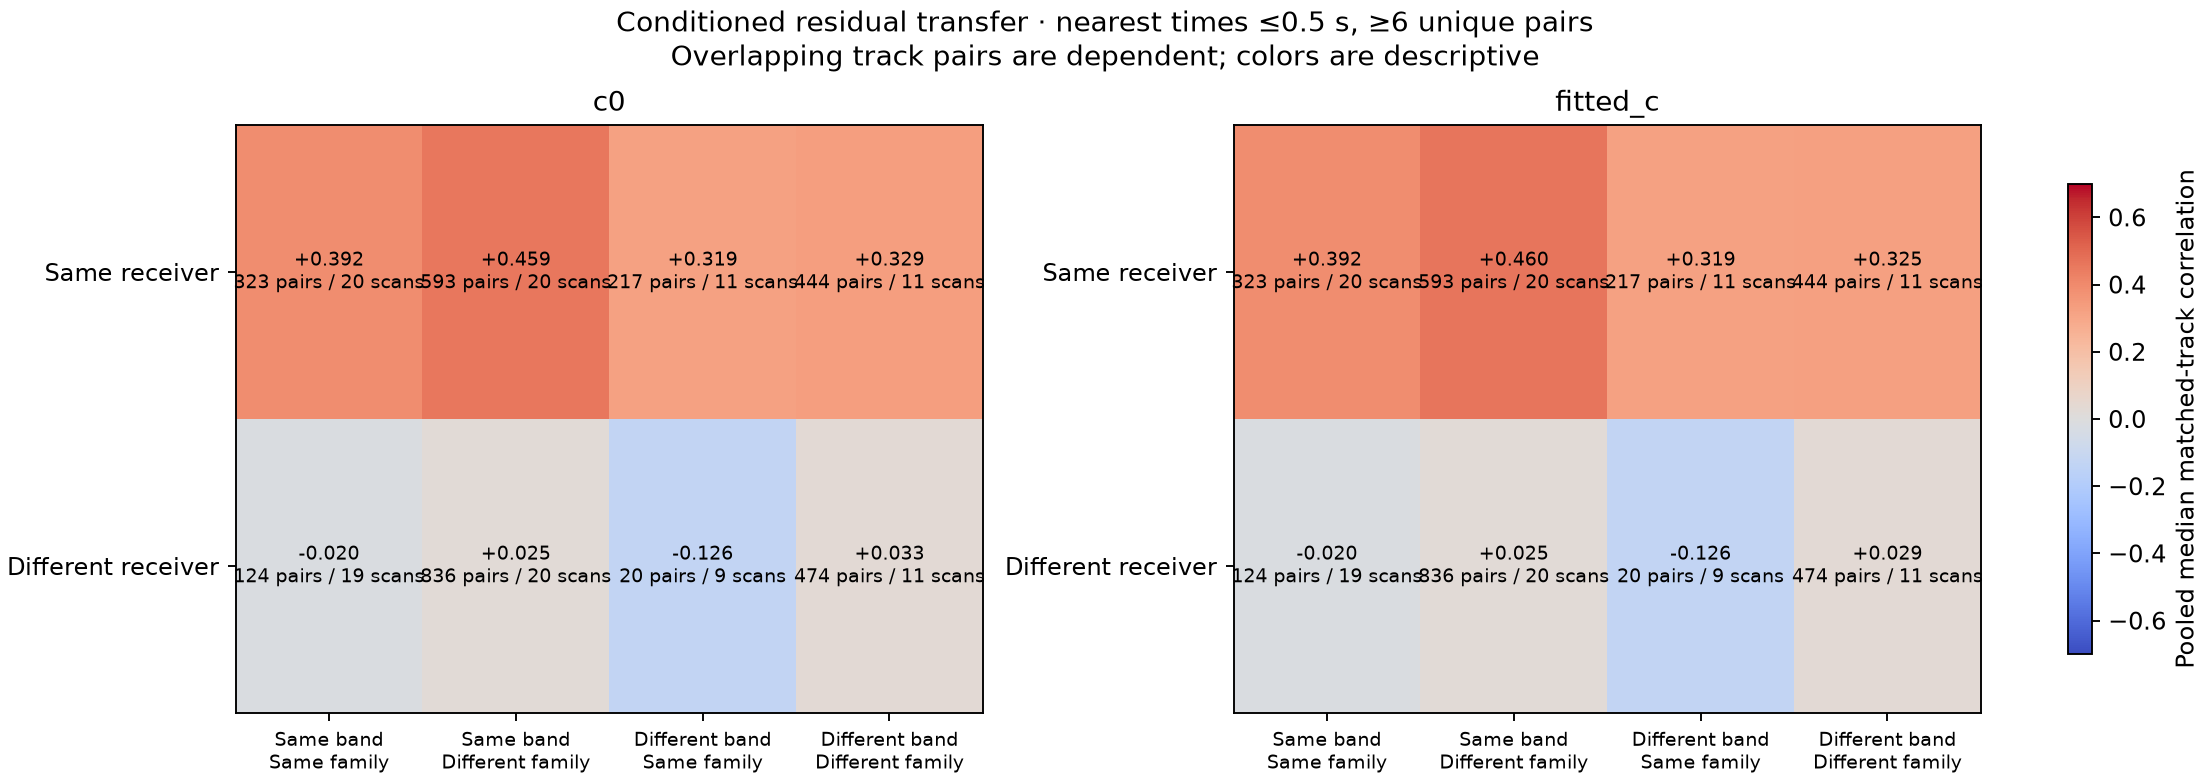
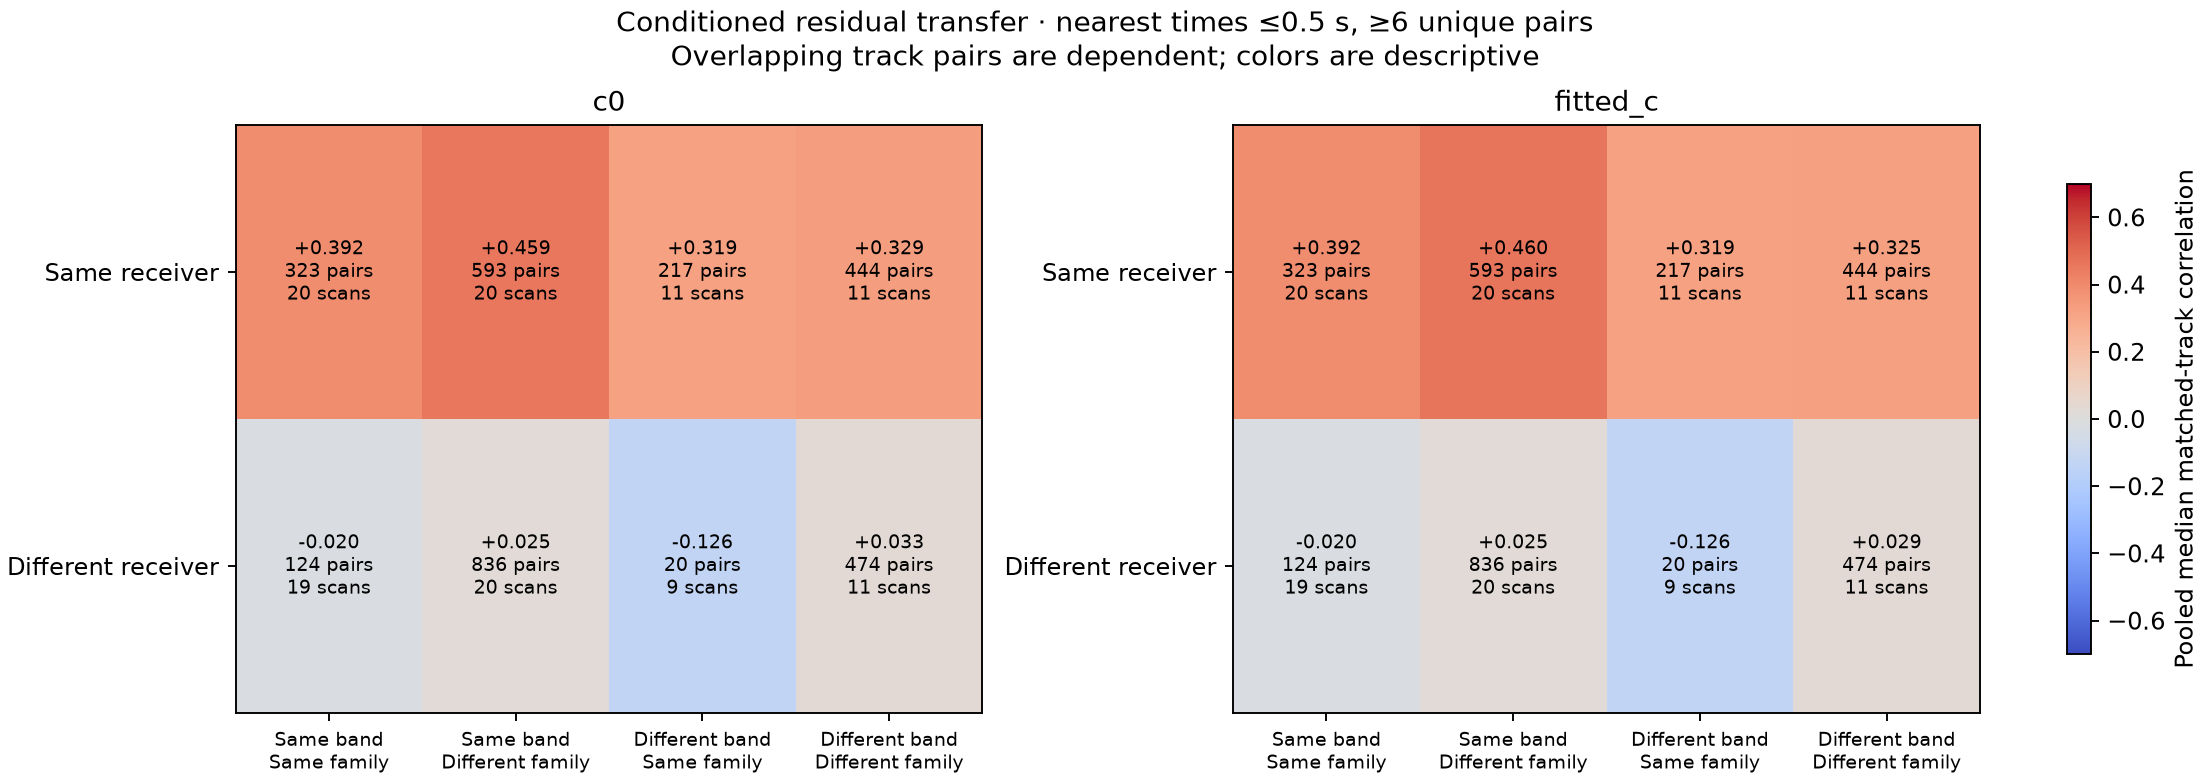
Improve readability of DS23 residual comparison annotations

diff --git a/reports/2026_10_18_ds23_learned_residuals/source_snapshot/tools/report_ds23_learned_residuals.py b/reports/2026_10_18_ds23_learned_residuals/source_snapshot/tools/report_ds23_learned_residuals.py
@@ -48,7 +48,7 @@ def run():
             for col,(band,family) in enumerate(columns):
                 s=next(r for r in correlation if r['arm']==arm and r['same_receiver']==rx and r['same_band']==band and r['same_family']==family)
                 if s['track_pairs']:matrix[row,col]=s['pooled_median_correlation']
-                label='No pairs' if s['pooled_median_correlation'] is None else f"{s['pooled_median_correlation']:+.3f}\n{s['track_pairs']} pairs / {s['scans']} scans"
+                label='No pairs' if s['pooled_median_correlation'] is None else f"{s['pooled_median_correlation']:+.3f}\n{s['track_pairs']} pairs\n{s['scans']} scans"
                 ax.text(col,row,label,ha='center',va='center',fontsize=8)
         im=ax.imshow(matrix,cmap='coolwarm',vmin=-.7,vmax=.7,aspect='auto')
         ax.set_xticks(range(4),[('Same' if b else 'Different')+' band\n'+('Same' if f else 'Different')+' family' for b,f in columns],fontsize=8)
